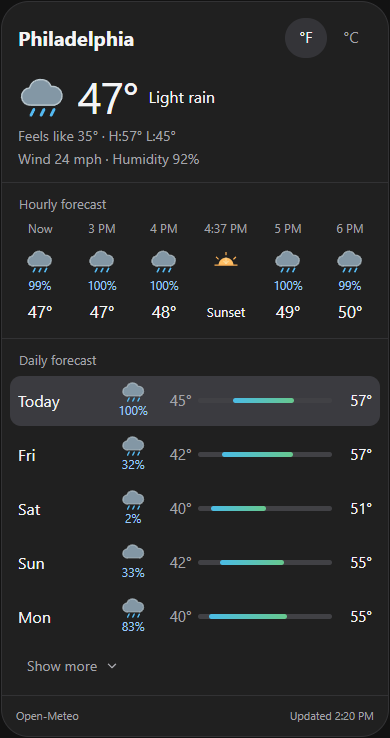
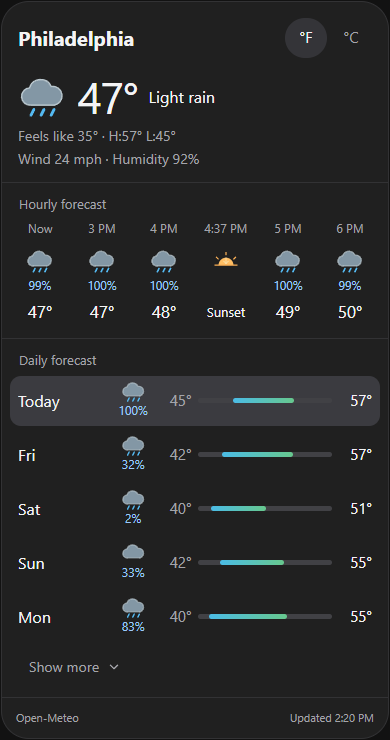
feat: pill highlight on Show more hover

diff --git a/skills/weather-cards/scripts/card.html b/skills/weather-cards/scripts/card.html
@@ -4,7 +4,7 @@
 :root{color-scheme:light dark;--wc-bg:#f6f7f8;--wc-card:#fff;--wc-fg:#202329;--wc-muted:#62676f;--wc-line:#e6e7e9;--wc-selected:#eef0f3;--wc-track:#e4e7eb;--wc-blue:#1971ad;--wc-button:#e9ecf0}
 @media(prefers-color-scheme:dark){:root:not([data-theme=light]){--wc-bg:#131313;--wc-card:#202020;--wc-fg:#f4f4f5;--wc-muted:#a4a4aa;--wc-line:#323234;--wc-selected:#3b3b40;--wc-track:#414145;--wc-blue:#9dcafa;--wc-button:#343438}}
 :root[data-theme=dark]{--wc-bg:#131313;--wc-card:#202020;--wc-fg:#f4f4f5;--wc-muted:#a4a4aa;--wc-line:#323234;--wc-selected:#3b3b40;--wc-track:#414145;--wc-blue:#9dcafa;--wc-button:#343438}
-*{box-sizing:border-box}html,body{background:transparent}body{margin:0;padding:1px;color:var(--foreground,var(--wc-fg));font:15px/1.45 -apple-system,BlinkMacSystemFont,"Segoe UI",sans-serif}.card{max-width:640px;min-width:0;margin:0;border:1px solid var(--border,var(--wc-line));border-radius:28px;overflow:hidden;background:var(--card,var(--wc-card));color:var(--card-foreground,var(--wc-fg))}.current{padding:18px 18px 14px}header{display:flex;align-items:center;gap:12px;justify-content:space-between;margin-bottom:12px}h1{font-size:20px;line-height:1.2;margin:0;font-weight:650;overflow-wrap:anywhere;min-width:0}.units{display:flex;gap:3px;flex-shrink:0}button{font:inherit;color:inherit;border:0;cursor:pointer}button:focus-visible,a:focus-visible,.hours:focus-visible{outline:2px solid #38bdf8;outline-offset:2px}.units button{width:42px;height:40px;border-radius:24px;background:transparent;color:var(--muted-foreground,var(--wc-muted))}.units [aria-pressed=true]{background:var(--wc-button);color:var(--wc-fg)}.hero{display:flex;gap:14px;align-items:center}.hero .icon{width:49px;height:49px}.temp{font-size:46px;line-height:1.2;letter-spacing:-1.5px;font-weight:450}.condition{font-size:18px}.detail{color:var(--muted-foreground,var(--wc-muted));margin-top:3px;font-size:14px}.section{border-top:1px solid var(--border,var(--wc-line));padding:12px 8px 14px}.label{font-size:13px;font-weight:400;color:var(--muted-foreground,var(--wc-muted));margin:0 9px 6px}.hours{display:flex;gap:2px;overflow-x:auto;overscroll-behavior-x:contain;padding:0 1px 5px;scrollbar-width:thin;scrollbar-color:var(--wc-track) transparent;scroll-snap-type:x proximity}.hour{flex:0 0 60px;text-align:center;scroll-snap-align:start}.hour-time{font-size:12px;color:var(--muted-foreground,var(--wc-muted));white-space:nowrap;height:25px}.icon{width:28px;height:28px;display:inline-block;vertical-align:middle}.hour .icon{margin:2px 0}.pop{color:var(--wc-blue);font-size:12px;min-height:18px}.hour-temp{font-size:17px;margin-top:4px}.hour.sun .hour-temp{font-size:13px;margin-top:8px}.day{display:grid;grid-template-columns:minmax(45px,1fr) 43px 39px minmax(55px,1.6fr) 40px;align-items:center;gap:8px;min-height:50px;padding:3px 9px;border-radius:11px}.day.selected{background:var(--wc-selected)}button.day{width:100%;border:0;font:inherit;color:inherit;text-align:left;background:transparent;cursor:pointer}button.day:hover:not(.selected){background:color-mix(in srgb,var(--wc-selected) 55%,transparent)}button.day:focus-visible{outline:2px solid var(--wc-blue,#5ab8f0);outline-offset:-2px}.day-name{font-size:16px}.daily-weather{text-align:center;line-height:1.1}.daily-weather .icon{width:25px;height:25px}.low{text-align:right;color:var(--muted-foreground,var(--wc-muted))}.high{text-align:right}.track{height:5px;border-radius:10px;background:var(--wc-track);position:relative;overflow:hidden}.range{position:absolute;top:0;height:100%;min-width:2px;border-radius:10px;background:linear-gradient(90deg,#4bbce6,#67c88e)}.more{background:transparent;color:var(--muted-foreground,var(--wc-muted));padding:14px 17px 5px;font-size:14px;display:inline-flex;align-items:center;gap:8px;line-height:20px}.more svg{width:14px;height:14px;display:block;flex:none}.more[aria-expanded=true] svg{transform:rotate(180deg)}.footer{border-top:1px solid var(--border,var(--wc-line));padding:12px 16px;color:var(--muted-foreground,var(--wc-muted));font-size:11px}.footer-line{display:flex;gap:10px;justify-content:space-between;flex-wrap:wrap}.footer a{color:inherit;text-decoration:none}.footer a:hover{text-decoration:underline}.note{margin-top:5px;font-size:10px}.provenance{margin-top:5px}.provenance summary{cursor:pointer;font-size:10px}.footer{padding-top:9px;padding-bottom:9px}.error{padding:20px;color:var(--wc-fg)}[hidden]{display:none!important}@media(max-width:390px){.current{padding:16px 16px 13px}.day{gap:6px;padding:3px 8px;grid-template-columns:minmax(43px,1fr) 39px 33px minmax(48px,1.5fr) 34px}.condition{font-size:16px}.temp{font-size:44px}.hero{gap:11px}.footer{padding:12px 14px}}
+*{box-sizing:border-box}html,body{background:transparent}body{margin:0;padding:1px;color:var(--foreground,var(--wc-fg));font:15px/1.45 -apple-system,BlinkMacSystemFont,"Segoe UI",sans-serif}.card{max-width:640px;min-width:0;margin:0;border:1px solid var(--border,var(--wc-line));border-radius:28px;overflow:hidden;background:var(--card,var(--wc-card));color:var(--card-foreground,var(--wc-fg))}.current{padding:18px 18px 14px}header{display:flex;align-items:center;gap:12px;justify-content:space-between;margin-bottom:12px}h1{font-size:20px;line-height:1.2;margin:0;font-weight:650;overflow-wrap:anywhere;min-width:0}.units{display:flex;gap:3px;flex-shrink:0}button{font:inherit;color:inherit;border:0;cursor:pointer}button:focus-visible,a:focus-visible,.hours:focus-visible{outline:2px solid #38bdf8;outline-offset:2px}.units button{width:42px;height:40px;border-radius:24px;background:transparent;color:var(--muted-foreground,var(--wc-muted))}.units [aria-pressed=true]{background:var(--wc-button);color:var(--wc-fg)}.hero{display:flex;gap:14px;align-items:center}.hero .icon{width:49px;height:49px}.temp{font-size:46px;line-height:1.2;letter-spacing:-1.5px;font-weight:450}.condition{font-size:18px}.detail{color:var(--muted-foreground,var(--wc-muted));margin-top:3px;font-size:14px}.section{border-top:1px solid var(--border,var(--wc-line));padding:12px 8px 14px}.label{font-size:13px;font-weight:400;color:var(--muted-foreground,var(--wc-muted));margin:0 9px 6px}.hours{display:flex;gap:2px;overflow-x:auto;overscroll-behavior-x:contain;padding:0 1px 5px;scrollbar-width:thin;scrollbar-color:var(--wc-track) transparent;scroll-snap-type:x proximity}.hour{flex:0 0 60px;text-align:center;scroll-snap-align:start}.hour-time{font-size:12px;color:var(--muted-foreground,var(--wc-muted));white-space:nowrap;height:25px}.icon{width:28px;height:28px;display:inline-block;vertical-align:middle}.hour .icon{margin:2px 0}.pop{color:var(--wc-blue);font-size:12px;min-height:18px}.hour-temp{font-size:17px;margin-top:4px}.hour.sun .hour-temp{font-size:13px;margin-top:8px}.day{display:grid;grid-template-columns:minmax(45px,1fr) 43px 39px minmax(55px,1.6fr) 40px;align-items:center;gap:8px;min-height:50px;padding:3px 9px;border-radius:11px}.day.selected{background:var(--wc-selected)}button.day{width:100%;border:0;font:inherit;color:inherit;text-align:left;background:transparent;cursor:pointer}button.day:hover:not(.selected){background:color-mix(in srgb,var(--wc-selected) 55%,transparent)}button.day:focus-visible{outline:2px solid var(--wc-blue,#5ab8f0);outline-offset:-2px}.day-name{font-size:16px}.daily-weather{text-align:center;line-height:1.1}.daily-weather .icon{width:25px;height:25px}.low{text-align:right;color:var(--muted-foreground,var(--wc-muted))}.high{text-align:right}.track{height:5px;border-radius:10px;background:var(--wc-track);position:relative;overflow:hidden}.range{position:absolute;top:0;height:100%;min-width:2px;border-radius:10px;background:linear-gradient(90deg,#4bbce6,#67c88e)}.more{background:transparent;color:var(--muted-foreground,var(--wc-muted));margin:9px 0 0 7px;padding:6px 12px;border:0;border-radius:999px;font:inherit;font-size:14px;display:inline-flex;align-items:center;gap:8px;line-height:20px;cursor:pointer;transition:background-color .15s ease,color .15s ease}.more:hover,.more:focus-visible{background:var(--wc-selected);color:var(--foreground,var(--wc-fg))}.more:focus-visible{outline:2px solid var(--wc-blue);outline-offset:1px}.more svg{width:14px;height:14px;display:block;flex:none}.more[aria-expanded=true] svg{transform:rotate(180deg)}.footer{border-top:1px solid var(--border,var(--wc-line));padding:12px 16px;color:var(--muted-foreground,var(--wc-muted));font-size:11px}.footer-line{display:flex;gap:10px;justify-content:space-between;flex-wrap:wrap}.footer a{color:inherit;text-decoration:none}.footer a:hover{text-decoration:underline}.note{margin-top:5px;font-size:10px}.provenance{margin-top:5px}.provenance summary{cursor:pointer;font-size:10px}.footer{padding-top:9px;padding-bottom:9px}.error{padding:20px;color:var(--wc-fg)}[hidden]{display:none!important}@media(max-width:390px){.current{padding:16px 16px 13px}.day{gap:6px;padding:3px 8px;grid-template-columns:minmax(43px,1fr) 39px 33px minmax(48px,1.5fr) 34px}.condition{font-size:16px}.temp{font-size:44px}.hero{gap:11px}.footer{padding:12px 14px}}
 .hours-wrap{position:relative}.hours{touch-action:pan-x pan-y;scrollbar-width:none;-ms-overflow-style:none;padding-bottom:0}.hours::-webkit-scrollbar{display:none}.hour-nav{position:absolute;top:50%;z-index:2;width:30px;height:30px;margin-top:-15px;border-radius:50%;display:grid;place-items:center;background:color-mix(in srgb,var(--card,var(--wc-card)) 82%,var(--foreground,var(--wc-fg)) 18%);color:var(--foreground,var(--wc-fg));box-shadow:0 2px 10px rgba(0,0,0,.22)}.hour-nav svg{width:15px;height:15px;fill:none;stroke:currentColor;stroke-width:1.8;stroke-linecap:round;stroke-linejoin:round}.hour-nav.prev{left:2px}.hour-nav.next{right:2px}.hour-nav{opacity:0;pointer-events:none;transition:opacity .15s ease}.hours-wrap:hover .hour-nav,.hours-wrap:focus-within .hour-nav{opacity:1;pointer-events:auto}@media(hover:none){.hour-nav{display:none!important}.hours{scroll-snap-type:x proximity;-webkit-overflow-scrolling:touch;overscroll-behavior-x:contain}.hour{scroll-snap-align:start}}.hour-nav[hidden]{display:none}#days{display:flex;flex-direction:column;gap:4px}</style></head><body><main class="card" aria-label="Weather forecast"><section class="current"><header><h1 id="city">__TITLE__</h1><div class="units" role="group" aria-label="Temperature units"><button id="fahrenheit" aria-pressed="true" aria-label="Fahrenheit">°F</button><button id="celsius" aria-pressed="false" aria-label="Celsius">°C</button></div></header><div class="hero" id="hero"></div><div class="detail" id="feels"></div><div class="detail" id="wind"></div></section><section class="section"><h2 class="label" id="hours-label">Hourly forecast</h2><div class="hours-wrap"><button class="hour-nav prev" id="hours-prev" aria-label="Earlier hours" hidden><svg viewBox="0 0 16 16" aria-hidden="true"><path d="m10 3-5 5 5 5"/></svg></button><div class="hours" id="hours" tabindex="0" aria-label="Hourly forecast"></div><button class="hour-nav next" id="hours-next" aria-label="Later hours"><svg viewBox="0 0 16 16" aria-hidden="true"><path d="m6 3 5 5-5 5"/></svg></button></div></section><section class="section"><h2 class="label">Daily forecast</h2><div id="days"></div><button class="more" id="more" aria-expanded="false" aria-controls="days">Show more <span aria-hidden="true">⌄</span></button></section><footer class="footer"><div class="footer-line"><a href="https://open-meteo.com/" target="_blank" rel="noopener noreferrer">Open-Meteo</a><span id="valid"></span></div></footer></main>
 <script id="weather-data" type="application/json">__DATA__</script>
 <script>

diff --git a/tests/browser_check.py b/tests/browser_check.py
@@ -55,6 +55,12 @@ def check(page, file):
     page.click('#celsius')
     assert page.locator('.range').evaluate_all('(xs)=>xs.map(x=>[x.style.left,x.style.width])') == bar_before
     if len(d['daily']) > 5:
+        more = page.locator('#more')
+        assert more.evaluate('e=>getComputedStyle(e).backgroundColor') == 'rgba(0, 0, 0, 0)'
+        more.hover(); page.wait_for_timeout(250)
+        assert more.evaluate('e=>getComputedStyle(e).backgroundColor') != 'rgba(0, 0, 0, 0)', 'Show more needs a hover pill'
+        assert more.evaluate('e=>getComputedStyle(e).borderRadius') in ('999px', '9999px')
+        page.mouse.move(0, 0)
         page.click('#more'); assert page.locator('.day').count() == len(d['daily'])
         assert page.locator('#more').get_attribute('aria-expanded') == 'true'
         page.click('#more'); assert page.locator('.day').count() == 5
